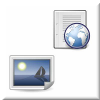
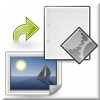
Website updates
- Updated image2code thumbnail
- Updated Web Storage guide
- Added short example links

diff --git a/tutorials/web-storage.html b/tutorials/web-storage.html
@@ -1,5 +1,28 @@
 <!DOCTYPE html><html><head><base href="http://lbv.github.io/ka-cs-programs/" /><meta name="description" content="Collection of assets created for the Khan Academy computer science
 platform." /><meta charset="utf-8" /><link rel="stylesheet" href="css/vendor/normalize.css" /><link rel="stylesheet" href="css/vendor/unsemantic.css" /><link rel="stylesheet" href="css/vendor/highlight/pojoaque.css" /><link rel="stylesheet" href="css/global.css" /><title>Using Web Storage | KA CS</title><link href="//fonts.googleapis.com/css?family=Roboto:700" rel="stylesheet" type="text/css" /></head><body><header class="grid-container site-header"><div class="grid-100"><span class="ka">KA</span><span class="cs">CS</span></div><div class="grid-100 tagline"><span>Coding for the Khan Academy computer science platform</span></div><nav class="grid-100"><a href="">Home</a><span> &#8883; </span><a href="#tutorials">Tutorials</a><span> &#8883; </span><span>Web Storage</span></nav></header><section class="grid-container site-body"><h1>Using Web&nbsp;Storage</h1>
+<h3>Document&nbsp;History</h3>
+<table><thead>
+<tr><th align="center">Date</th><th align="center">Changes</th></tr>
+</thead><tbody>
+<tr>
+  <td>2013-06-15</td>
+  <td>
+    <ul>
+      <li>Added information about the <code>remoteItem</code> method.</li>
+      <li>Fixed a bug in the final example, to avoid &#8220;double&nbsp;counts&#8221;.</li>
+      <li>Other minor&nbsp;corrections.</li>
+    </ul>
+  </td>
+</tr>
+<tr>
+  <td>2013-06-11</td>
+  <td>
+    First release.
+  </td>
+</tr>
+</tbody></table>
+
+<hr>
 <p>I&#8217;ve recently created a program called <a href="programs/portia-puzzles.html">The Portia Puzzles</a>, which
 includes a feature that some people have found interesting: it stores the
 progress made by the user so that, even if the browser gets closed, the next
@@ -20,8 +43,8 @@ And more specifically, in K.A.&nbsp;programs.</p>
 This guide is about elements that are part of the <span class="caps">HTML5</span>+JavaScript stack of
 technologies. However, they are undocumented in the Khan Academy&#8217;s Computer
 Science section. The examples here, and the general approach used in them,
-may stop working in the future, inside the K.A.. Nonetheless, this can still
-be useful if you decide to create your own stand&#8211;alone HTML5&nbsp;applications.
+may stop working in the K.A. environment in the future.  Nonetheless, this
+can still be useful if you decide to create your own stand&#8211;alone HTML5&nbsp;applications.
 </p>
 <p>
 Beyond the technical factors involved in using <span class="caps">HTML5</span> technologies like Web
@@ -102,8 +125,10 @@ remembered every time the program is run&nbsp;again:</p>
 <p>Hopefully you can follow what this code does without much effort.
 <code>localStorage</code> is the &#8220;channel&#8221; you use to interact with the browser&#8217;s local
 storage. It provides the methods <code>setItem</code> and <code>getItem</code>, which are pretty
-self&#8211;explanatory. The expression <code>floor(random(n))+1</code> simply calculates a
-pseudo&#8211;random integer between 1 and <em>n</em>.</p>
+self&#8211;explanatory. It also has a <code>removeItem</code> method, which does what you&#8217;d
+expect (we&#8217;ll see it in action later on). The expression
+<code>floor(random(n))+1</code> simply calculates a pseudo&#8211;random integer between 1
+and <em>n</em>.</p>
 <p>You may feel tempted to try this right now; to copy and paste this code into
 a <a href="https://www.khanacademy.org/cs/new">new program</a> in the K.A.. That&#8217;s a
 great idea! I like your enthusiasm and curiosity! Please, go right ahead and
@@ -126,8 +151,8 @@ and so on) can be used directly in your programs, without any special
 boilerplate code, or the need to access
 <code>deep.attributes.inside.javascript.code</code>. At the same time, many symbols
 that are the bread and butter of many JavaScript programs (like <code>String</code>,
-<code>RegExp</code>, <code>Error</code>, etc.) are <em>not</em> available in the <span class="caps">K.A.</span> environment&#8217;s main
-scope, so we can&#8217;t access them <em>directly</em>.</p>
+<code>Date</code>, <code>RegExp</code>, <code>Error</code>, etc.) are <em>not</em> available in the <span class="caps">K.A.
+</span>environment&#8217;s main scope, so we can&#8217;t access them <em>directly</em>.</p>
 <p>This does not necessarily mean, however, that the <span class="caps">K.A.</span> team in charge of the
 C.S. section has deliberately &#8220;removed&#8221; or forbade the use of certain
 basic elements from the JavaScript language. There certainly is a lot of
@@ -177,9 +202,11 @@ affecting every program in there, is that the default <a href="http://en.wikiped
 which your program runs is not JavaScript&#8217;s real <a href="https://developer.mozilla.org/en-US/docs/Web/JavaScript/Reference/Global_Objects">global scope</a>.
 Instead, it runs in a special scope, chained to lookup symbols from a
 <a href="http://processingjs.org/articles/jsQuickStart.html#javascriptonlyprocessingcode">Processing.js instance</a> by default. (By the way, have you
-noticed how much I seem to like the word &#8220;scope&#8221;? What&#8217;s the deal with&nbsp;that?)</p>
+noticed how much I seem to like the word &#8220;scope&#8221;? What&#8217;s the deal with that?
+Maybe it&#8217;s the way it sounds? Scope, scope, bo&#8211;bope / Banana&#8211;fana fo&#8211;fope
+/ Fee&#8211;fi&#8211;mo&#8211;mope /&nbsp;Scope&#8230;)</p>
 <p>Objects like <code>localStorage</code> live in the global scope, so how to reach that
-place? Well the <code>(function() { /* code here */ })();</code> pattern is an
+place? Well, the <code>(function() { /* code here */ })();</code> pattern is an
 effective way to do it. It works because, in JavaScript, an <a href="http://en.wikipedia.org/wiki/Anonymous_function">anonymous
 function</a> always runs in the global scope by&nbsp;default.</p>
 <p>If you feel like I&#8217;m going crazy, and the last couple of paragraphs look
@@ -238,9 +265,9 @@ useless &#8212;it becomes something like <code>"[object Object]"</code>.</p>
 <p>What to do? Well, no need to fret, my friend. There is a fairly simple
 mechanism that works well in <span class="caps">JS</span>, which is called
 <a href="http://www.json.org/"><span class="caps">JSON</span></a>. Technically, it is a data&#8211;interchange format,
-or &#8212;in other words&#8212;  a set of strict rules that specify how to arrange
-data so that it can be moved around and understood by different parties
-(people or machines). Sounds like something useful for our situation,&nbsp;right?</p>
+or, in other words, a set of strict rules that specify how to arrange data
+so that it can be moved around and understood by different parties (people
+or machines). Sounds like something useful for our situation,&nbsp;right?</p>
 <p>Something nice is that, &#8220;JavaScript&#8221; accounting for the first two letters in
 the <span class="caps">JSON</span> acronym, it&#8217;s no surprise that the JavaScript language has good
 built&#8211;in support for JSON. There is a <a href="https://developer.mozilla.org/en-US/docs/Web/JavaScript/Reference/Global_Objects/JSON"><code>JSON</code></a> object that
@@ -281,8 +308,12 @@ println(<span class="string">"The counter is: "</span> + data.counter);
 storage.setItem(<span class="string">'dot-program-data'</span>, json.stringify(data));
 
 println(<span class="string">"The data has been stored"</span>);</code></pre>
+<p>It seems now like we&#8217;re getting somewhere. Let&#8217;s complete our <em>Dot</em> project,
+shall&nbsp;we?</p>
 <h2>Full&nbsp;Example</h2>
-<p>We&#8217;re now ready to release our soon&#8211;to&#8211;be&#8211;famous <em>Dot</em>&nbsp;program:</p>
+<p>So, let&#8217;s throw our previous code in a pot, add the drawing of the dot, some
+control with the keyboard, the ability to delete the web storage data, and,
+<em>baby, we&#8217;ve got a stew&nbsp;going&#8230;</em></p>
 <p>
   <strong>Example:</strong>
   <a href="http://www.khanacademy.org/cs/example-the-dot-using-web-storage/1722256361" title="See this example running!">The Dot, using Web&nbsp;Storage</a>
@@ -296,27 +327,36 @@ println(<span class="string">"The data has been stored"</span>);</code></pre>
 })();
 
 <span class="keyword">var</span> data;
+<span class="keyword">var</span> dataJSON;
 <span class="keyword">var</span> dotRadius = <span class="number">2</span>;
 <span class="keyword">var</span> dotStep   = <span class="number">3</span>;
 <span class="keyword">var</span> pressedKeys = {};
 
-<span class="keyword">var</span> dataJSON = storage.getItem(<span class="string">'dot-program-data'</span>);
-
-<span class="keyword">if</span> (dataJSON) {
-    data = json.parse(dataJSON);
-}
-<span class="keyword">else</span> {
+<span class="keyword">var</span> initializeData = <span class="keyword">function</span>() {
     data = {
         counter: <span class="number">0</span>,
         X: <span class="number">200</span>,
         Y: <span class="number">200</span>
     };
+};
+
+dataJSON = storage.getItem(<span class="string">'dot-program-data'</span>);
+
+<span class="keyword">if</span> (dataJSON) {
+    data = json.parse(dataJSON);
+}
+<span class="keyword">else</span> {
+    initializeData();
 }
 
 data.counter = data.counter + <span class="number">1</span>;
 
-<span class="keyword">var</span> msg = <span class="string">"Welcome, you have run this program "</span> +
-    data.counter + <span class="string">" times"</span>;
+<span class="keyword">var</span> msgCounter = <span class="string">"Welcome, you have run this program "</span> +
+    data.counter + <span class="string">" time(s)\n Press C to clear the data"</span>;
+
+<span class="keyword">var</span> msgCleared = <span class="string">"You have cleared the stored data"</span>;
+
+<span class="keyword">var</span> hasBeenCleared = <span class="literal">false</span>;
 
 <span class="keyword">var</span> saveData = <span class="keyword">function</span>() {
     <span class="keyword">var</span> jsonData = json.stringify(data);
@@ -325,15 +365,23 @@ data.counter = data.counter + <span class="number">1</span>;
 
 saveData();
 
-<span class="keyword">var</span> keyPressed = <span class="keyword">function</span>() {
+
+<span class="keyword">this</span>.keyPressed = <span class="keyword">function</span>() {
     pressedKeys[keyCode] = <span class="literal">true</span>;
+
+    <span class="comment">// C is keyCode 67</span>
+    <span class="keyword">if</span> (keyCode === <span class="number">67</span>) {
+        storage.removeItem(<span class="string">'dot-program-data'</span>);
+        initializeData();
+        hasBeenCleared = <span class="literal">true</span>;
+    }
 };
 
-<span class="keyword">var</span> keyReleased = <span class="keyword">function</span>() {
+<span class="keyword">this</span>.keyReleased = <span class="keyword">function</span>() {
     pressedKeys[keyCode] = <span class="literal">false</span>;
 };
 
-<span class="keyword">var</span> draw = <span class="keyword">function</span>() {
+<span class="keyword">this</span>.draw = <span class="keyword">function</span>() {
     background(<span class="number">255</span>, <span class="number">255</span>, <span class="number">255</span>);
 
     <span class="comment">// the dot</span>
@@ -344,7 +392,13 @@ saveData();
     <span class="comment">// the message</span>
     fill(<span class="number">0</span>, <span class="number">0</span>, <span class="number">255</span>);
     textAlign(<span class="caps">CENTER</span>, TOP);
-    text(msg, <span class="number">200</span>, <span class="number">8</span>);
+
+    <span class="keyword">if</span> (hasBeenCleared) {
+        text(msgCleared, <span class="number">200</span>, <span class="number">8</span>);
+    }
+    <span class="keyword">else</span> {
+        text(msgCounter, <span class="number">200</span>, <span class="number">8</span>);
+    }
 
     <span class="comment">// control movement</span>
     <span class="keyword">var</span> moved = <span class="literal">false</span>;
@@ -370,6 +424,18 @@ saveData();
         saveData();
     }
 };</code></pre>
+<p>By the way, careful observers might notice that I&#8217;ve declared
+<em>Processing.js</em> functions like <code>draw</code> as <code>this.draw = ...</code> instead of
+<code>var draw = ...</code> or simply <code>draw = ...</code>. The reason for this is to avoid a
+small glitch (probably related to the code injection mechanism implemented
+in the <span class="caps">K.A.</span> environment) that causes the program to be run two times in
+rapid succession when it&#8217;s opened in a browser. This would produce an
+unexpected behaviour where you would see the message &#8220;you have run this
+program 2 time(s)&#8221; the first time you run it, and then 4, and then 6, and so&nbsp;on.</p>
+<p>Life in software development is filled with moments like this, where you
+have something in your mind that &#8212;in theory&#8212; should work flawlessly. And
+then you implement it and, surprise! The upside from this is that you get to
+learn a lot from these experiences&nbsp;=).</p>
 <h2>Final&nbsp;Recommendations</h2>
 <p>Remember when I mentioned that we were going to talk more about how web
 storage has a size limit of about 5 <span class="caps">MB</span> <em>per origin</em>? Me neither. But let&#8217;s
@@ -411,10 +477,11 @@ Use web storage for data that you would not miss if it dissapears or gets
 corrupted for some&nbsp;reason.</p>
 </li>
 <li><p>Adjust your code, given the possibility that the stored data may get
-modified by external forces. Some programmers refer to this as <a href="http://en.wikipedia.org/wiki/Defensive_programming">defensive
-programming</a>. For example, if your program stores something as
-<code>data.score</code>, which is expected to be an integer, be prepared for the case
-where <code>data.score</code> may be stored as a string, or an array, or some other&nbsp;thing.</p>
+modified by external forces. Software developers sometimes refer to this
+as <a href="http://en.wikipedia.org/wiki/Defensive_programming">defensive programming</a>. For example, if your program stores
+something as <code>data.score</code>, which is expected to be an integer, be prepared
+for the case where <code>data.score</code> may be stored as a string, or an array, or
+some other&nbsp;thing.</p>
 </li>
 <li><p>Having said that, don&#8217;t get too caught up in trying to account for
 <em>everything</em>. If the data you persist is in fact nothing too serious, then

diff --git a/css/global.css b/css/global.css
@@ -1,1 +1,1 @@
-@charset "UTF-8";body{font-size:.9em}body a:hover{text-decoration:none}.program{text-align:justify}h1{margin-top:2em}img.program-thumb{float:right;margin:0 0 16px 16px}img.program-list-thumb{float:left;margin:0 16px 16px 0}.notice{background-color:#eeeeec;border:2px solid #555753;border-radius:5px;-moz-border-radius:5px;-webkit-border-radius:5px;width:60%;margin:0 auto;padding:0 16px}pre code{border-radius:8px;-moz-border-radius:8px;-webkit-border-radius:8px;white-space:-moz-pre-wrap;white-space:-pre-wrap;white-space:-o-pre-wrap;white-space:pre-wrap;border:1px solid #babdb6;padding:16px;width:auto;display:inline-block;min-width:40em}.sig .name{margin-right:4px;font-style:oblique}.sig .name:before{content:"— "}.site-header{font-size:2.8em;font-family:'Roboto',sans-serif;margin:6px 0}.site-header .ka{color:#4e9a06}.site-header .cs{color:#204a87}.site-header .tagline{color:#888a85;font-family:sans-serif;font-size:12px;font-style:italic}.site-header nav{margin:8px 0;font-size:11px;font-family:sans-serif}.site-footer{background-color:#eeeeec;padding:4px;margin-top:12px;font-size:.8em;text-align:center;border-radius:10px;-moz-border-radius:10px;-webkit-border-radius:10px}.tutorial-title{text-align:right}
+@charset "UTF-8";body{font-size:.9em}body a:hover{text-decoration:none}.program{text-align:justify}h1{margin-top:2em}img.program-thumb{float:right;margin:0 0 16px 16px}img.program-list-thumb{float:left;margin:0 16px 16px 0}.notice{background-color:#eeeeec;border:2px solid #555753;border-radius:5px;-moz-border-radius:5px;-webkit-border-radius:5px;width:60%;margin:0 auto;padding:0 16px}pre code{border-radius:8px;-moz-border-radius:8px;-webkit-border-radius:8px;white-space:-moz-pre-wrap;white-space:-pre-wrap;white-space:-o-pre-wrap;white-space:pre-wrap;border:1px solid #babdb6;padding:16px;width:auto;display:inline-block;min-width:40em}.sig .name{margin-right:4px;font-style:oblique}.sig .name:before{content:"— "}.site-header{font-size:2.8em;font-family:'Roboto',sans-serif;margin:6px 0}.site-header .ka{color:#4e9a06}.site-header .cs{color:#204a87}.site-header .tagline{color:#888a85;font-family:sans-serif;font-size:12px;font-style:italic}.site-header nav{margin:8px 0;font-size:11px;font-family:sans-serif}.site-footer{background-color:#eeeeec;padding:4px;margin-top:12px;font-size:.8em;text-align:center;border-radius:10px;-moz-border-radius:10px;-webkit-border-radius:10px}.tutorial-title{text-align:right}table th{border-bottom:1px solid #333}table td{padding:4px 8px}

diff --git a/index.html b/index.html
@@ -33,8 +33,13 @@ question/comment on any of my programs. Have&nbsp;fun&#8230;</p>
 </div><div class="grid-70"><p>How to store persistent data in JavaScript programs using <span class="caps">HTML5</span>&#8217;s Web&nbsp;Storage.</p>
 </div></section><section id="examples" class="grid-100"><h1>Short Examples</h1><div><ul>
 <li><a href="https://www.khanacademy.org/cs/example-drawing-text-with-the-html-canvas-api/1544088227"><strong>Drawing text with the <span class="caps">HTML</span> canvas&nbsp;API</strong></a></li>
+<li><a href="http://www.khanacademy.org/cs/example-emulating-different-audio-channels/1723438809"><strong>Emulating different audio&nbsp;channels</strong></a></li>
+<li><a href="http://www.khanacademy.org/cs/example-how-to-grab-pieces-of-the-canvas/1480182631"><strong>How to grab pieces of the&nbsp;canvas</strong></a></li>
+<li><a href="http://www.khanacademy.org/cs/example-identifying-figures-by-their-location-and-shape/1520783583"><strong>Identifying figures by their location and&nbsp;shape</strong></a></li>
+<li><a href="http://www.khanacademy.org/cs/example-identifying-shapes-by-their-color/1520899184"><strong>Identifying shapes by their&nbsp;color</strong></a></li>
+<li><a href="http://www.khanacademy.org/cs/example-the-dot-using-web-storage/1722256361"><strong>The Dot, using Web&nbsp;Storage</strong></a></li>
 </ul>
 </div><div class="clear"></div></section><section id="other" class="grid-100"><h1>Other Resources</h1><div class="grid-30 tutorial-title"><p><a href="other/sandbox.html"><strong>The Khan Academy C.S.&nbsp;Sandbox</strong></a></p>
 </div><div class="grid-70"><p>Some of my opinions on the limitations imposed on the environment
 provided by the Khan Academy to learn about computer&nbsp;science.</p>
-</div></section></section><footer class="grid-container"><div class="grid-100 site-footer"><p>Last update: 2013-06-12</p><p><a href="http://creativecommons.org/publicdomain/zero/1.0/">No rights reserved</a></p></div></footer></body></html>
+</div></section></section><footer class="grid-container"><div class="grid-100 site-footer"><p>Last update: 2013-06-15</p><p><a href="http://creativecommons.org/publicdomain/zero/1.0/">No rights reserved</a></p></div></footer></body></html>

diff --git a/programs/image2code.html b/programs/image2code.html
@@ -27,8 +27,22 @@ programs, including external images. You can find a link&nbsp;below.</p>
 <li><a href="http://lbv.github.io/mam/"><span class="caps">MAM</span>, the Media Assets Manager&nbsp;library</a></li>
 <li><a href="http://commons.wikimedia.org/wiki/Tango_icons">Background image from the Tango &#8220;Mimetypes&#8221;&nbsp;icons</a></li>
 </ul>
-<h2>ChangeLog</h2><p><strong>Current revision</strong>:&nbsp;rev4</p>
-<pre><code>2013-06-11
+<h2>ChangeLog</h2><p><strong>Current revision</strong>:&nbsp;rev6</p>
+<pre><code>2013-06-14
+
+    * Added notice for browser that don't support
+      FileReader.
+    * Added more details about errors in downloading remote
+      files.
+    * Other minor usability fixes.
+
+2013-06-13
+
+    * Moved UI to asset files.
+    * Changed background image.
+    * Added support for reading files from URLs.
+
+2013-06-11
 
     * Mention MAM in the comments.
 
